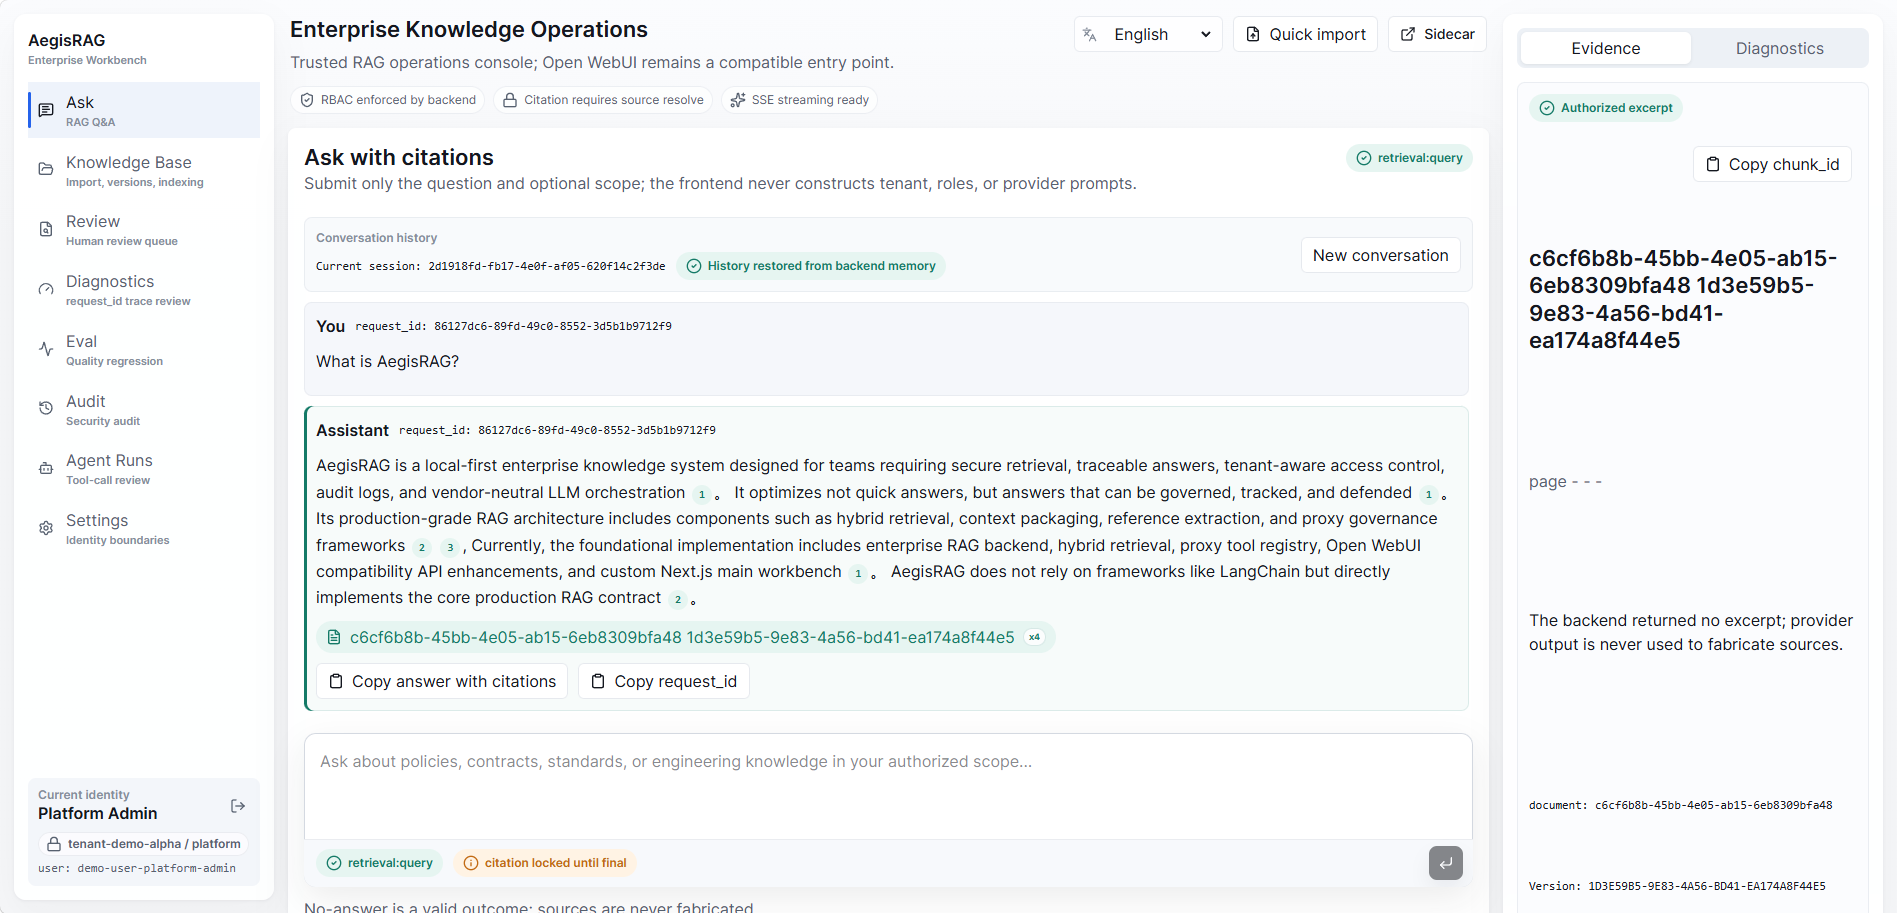
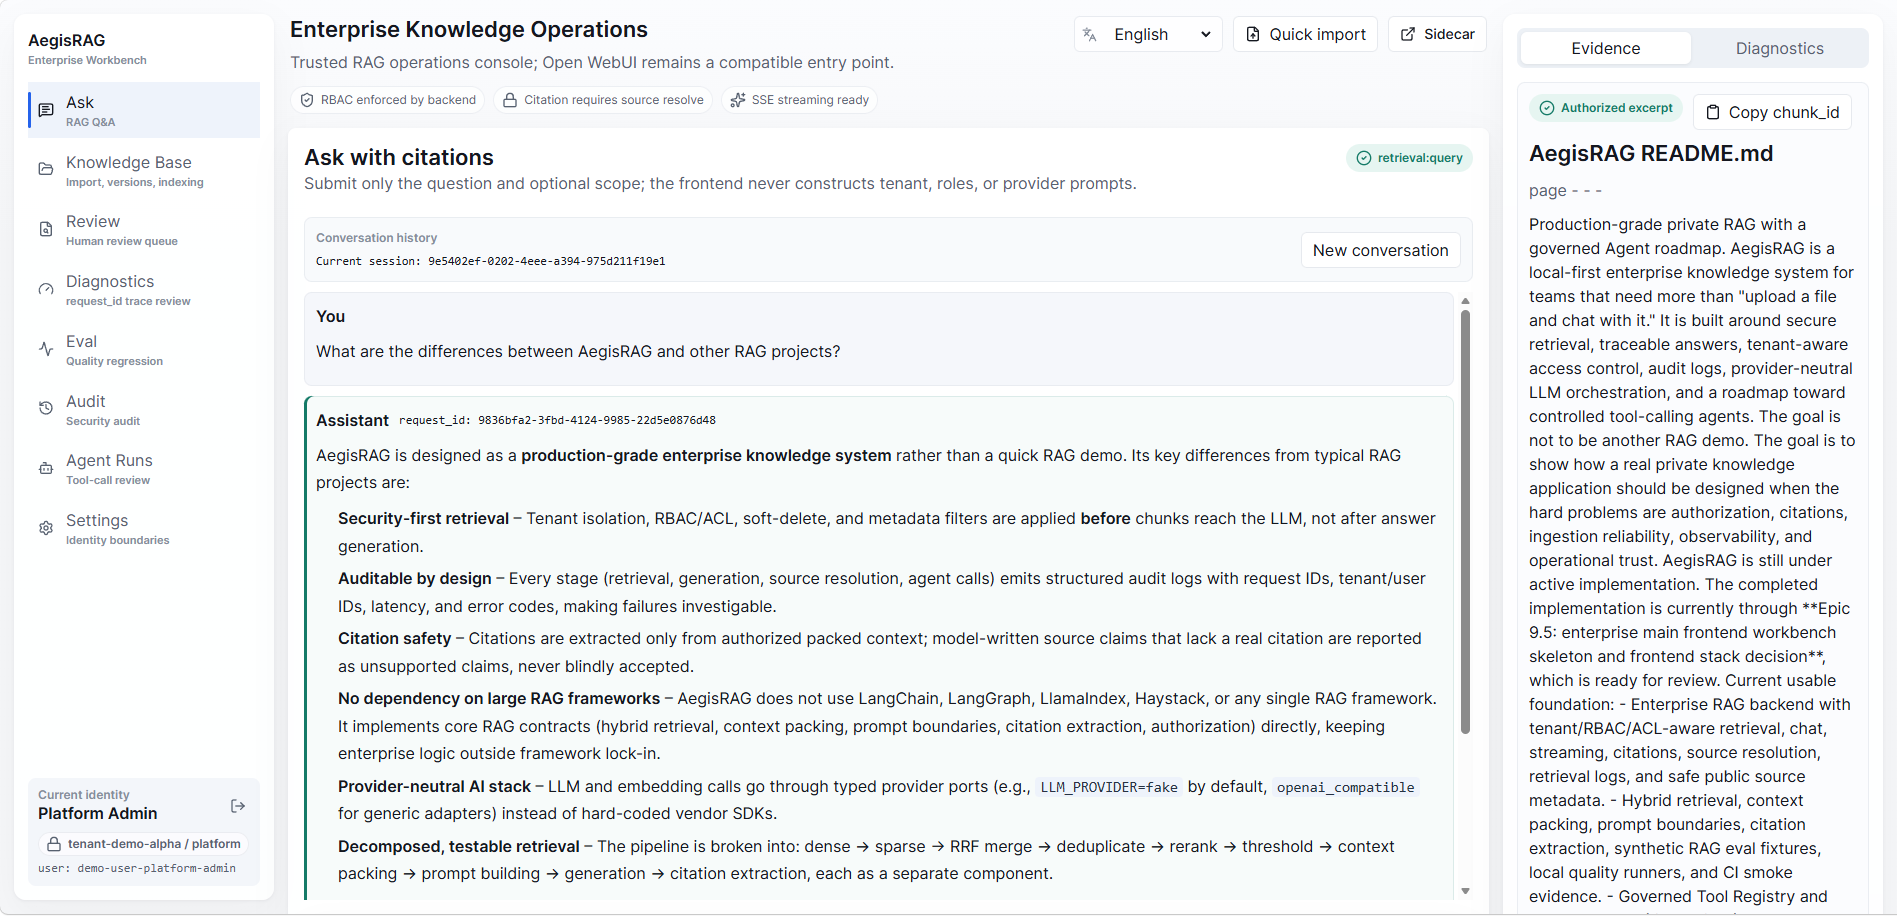
fix(workbench): restore citation evidence and eval empty state

diff --git a/apps/web/src/lib/i18n.ts b/apps/web/src/lib/i18n.ts
@@ -224,7 +224,7 @@ export const uiText = {
     en: "Unable to resolve diagnostics. Raw query, prompt, and chunk content are not shown.",
     zh: "无法解析诊断摘要；不会显示 raw query、prompt 或 chunk content。"
   },
-  citationReady: { en: "Citation ready", zh: "Citation 就绪" },
+  citationReady: { en: "Citation ready", zh: "引用就绪" },
   citationReadyHelp: {
     en: "Select a citation and the system will call /sources/resolve again for authorization.",
     zh: "点击回答中的 citation 后，系统会重新调用 /sources/resolve 做二次授权。"
@@ -235,7 +235,7 @@ export const uiText = {
     en: "The source excerpt cannot be re-authorized. The system does not reveal whether the resource exists, was deleted, or failed ACL checks.",
     zh: "该来源片段无法重新授权。系统不暴露资源是否存在、是否删除或 ACL 是否匹配。"
   },
-  authorizedExcerpt: { en: "Authorized excerpt", zh: "已授权片段" },
+  authorizedExcerpt: { en: "Authorized excerpt", zh: "已授权原文片段" },
   noExcerpt: {
     en: "The backend returned no excerpt; provider output is never used to fabricate sources.",
     zh: "后端未返回 excerpt；不使用 provider 输出补造来源。"

diff --git a/apps/web/src/components/workbench-shell.tsx b/apps/web/src/components/workbench-shell.tsx
@@ -468,7 +468,7 @@ function AskPanel({
                   citation={group.primary}
                   label={group.label}
                   count={group.count}
-                  onOpen={(citation) => onOpenCitation(citation, false)}
+                  onOpen={onOpenCitation}
                   language={language}
                 />
               ))}

diff --git a/tests/unit/eval_evidence/test_eval_evidence_service.py b/tests/unit/eval_evidence/test_eval_evidence_service.py
@@ -147,6 +147,21 @@ async def test_list_skips_malformed_report_and_keeps_valid_reports(tmp_path: Pat
 
 
 @pytest.mark.asyncio
+async def test_list_missing_report_directory_returns_empty_reports(tmp_path: Path) -> None:
+    audit = InMemoryAuditPort()
+    service = EvalEvidenceService(report_dir=tmp_path / "missing-reports", audit=audit)
+
+    result = await service.list_reports(context=_context())
+
+    assert result.items == ()
+    assert any("tests/eval" in command for command in result.next_steps)
+    assert audit.events[0].action == "eval_evidence.list_reports"
+    assert audit.events[0].status == AuditStatus.SUCCESS
+    assert audit.events[0].metadata["item_count"] == 0
+    assert audit.events[0].error_code is None
+
+
[email redacted]
 async def test_list_sorts_generated_at_as_instant_not_raw_string(tmp_path: Path) -> None:
     older = _quality_report()
     older["generated_at"] = "2026-06-09T20:00:00+08:00"

diff --git a/packages/eval/service.py b/packages/eval/service.py
@@ -89,6 +89,18 @@ class EvalEvidenceService:
                 error_code=exc.code,
             )
             raise
+        if not self._report_dir.exists():
+            await self._record_audit(
+                context=context,
+                action=action,
+                started=started,
+                status=AuditStatus.SUCCESS,
+                report_filename=None,
+                report_type=None,
+                item_count=0,
+                error_code=None,
+            )
+            return EvalEvidenceReportListResponse(items=(), next_steps=_NEXT_STEPS)
         safe_limit = min(max(limit, 1), 100)
         try:
             candidates = [